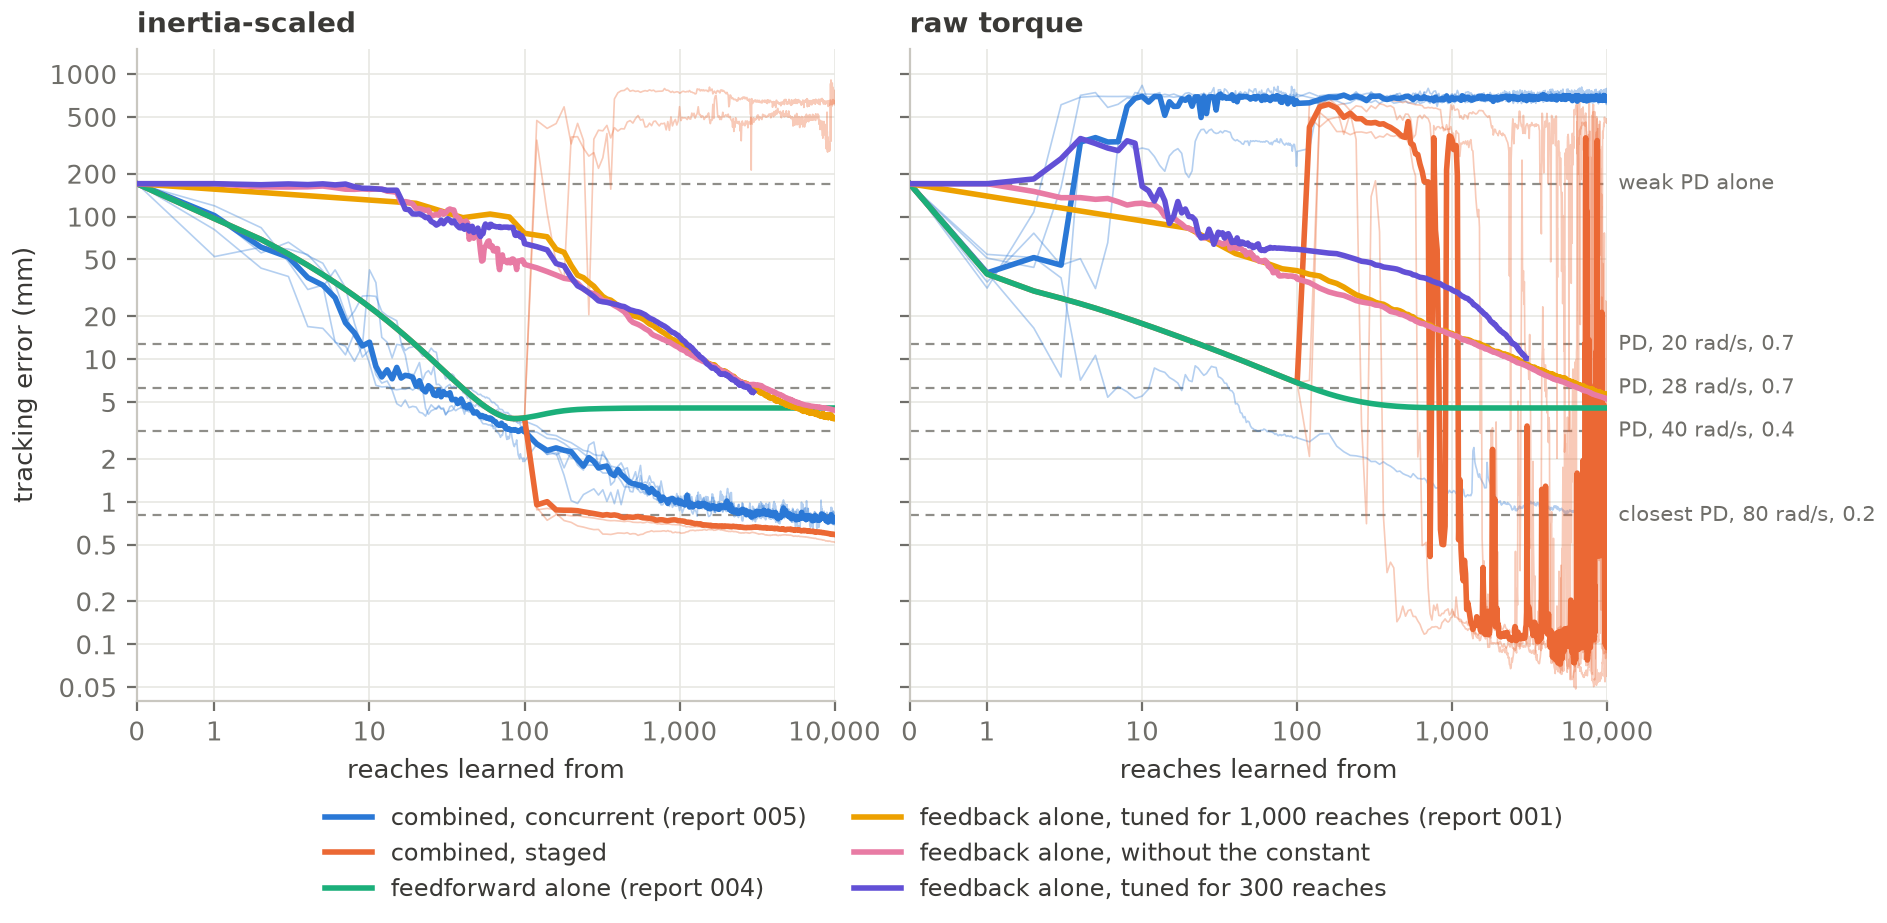
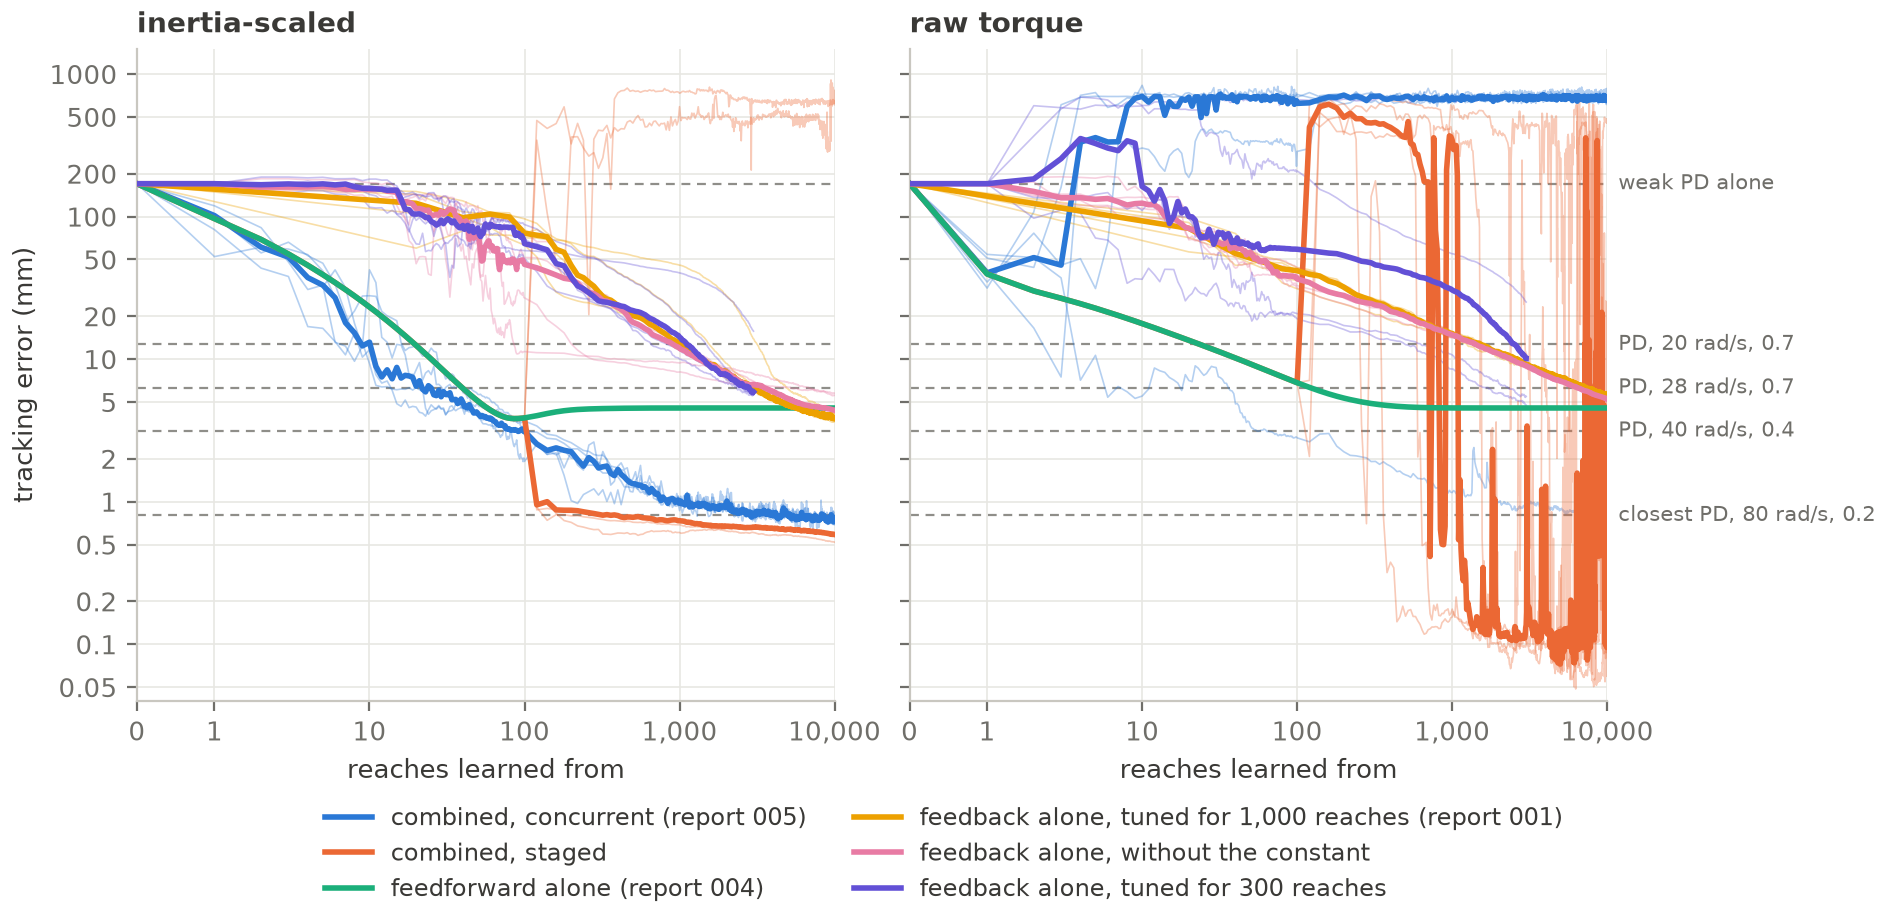
docs: draw every arm's seeds in report 006's final-runs figure
The figure drew single seeds only for the combined arms, so the three arms
of the feedback alone showed their medians alone. Every arm with more than
one seed now shows them. The text names what the medians hid: with raw
torque, the feedback tuned for 300 reaches lost seed 1 at once, and seeds
3 and 4 left the weak PD early and came back.

diff --git a/reports/006-learning-speed/make_figures.py b/reports/006-learning-speed/make_figures.py
@@ -7,8 +7,9 @@
 
 It writes, under ``figures/``:
 
-- ``final.png``: the noise-free tracking error of every arm over the reaches, a panel
-  per feedback scale, against the PDs;
+- ``final.png``: the noise-free tracking error of every arm over the reaches, each
+  seed thin and the median over the seeds thick, a panel per feedback scale, against
+  the PDs;
 - ``levels.png``: the reach from which each seed stays closer than each PD, per arm.
 """
 
@@ -94,7 +95,7 @@ def draw_final(runs, pds) -> None:
         for (label, run), color in zip(runs[scale].items(), SERIES, strict=True):
             at, evaluations = load_course(run)
             errors = millimetres(evaluations)
-            if label.startswith("combined") and len(errors) > 1:
+            if len(errors) > 1:
                 for row in errors:
                     ax.plot(at, row, color=color, lw=0.6, alpha=0.35, zorder=2)
             ax.plot(at, np.median(errors, axis=0), color=color, lw=2.0, label=label, zorder=3)

diff --git a/reports/006-learning-speed/README.md b/reports/006-learning-speed/README.md
@@ -203,8 +203,9 @@ schedule and at 300 for the feedback alone.
 ### 3.2 The final runs
 
 Every arm's noise-free tracking error over the reaches, drawn like report 003's
-final-runs figure: the combined arms' seeds thin, the medians thick (a run-away
-counting as it is), and the PDs dashed. The reaches are on a logarithmic axis.
+final-runs figure: each seed thin, the medians thick (a run-away counting as it
+is), and the PDs dashed. The feedforward alone is one run: it has no exploration
+noise. The reaches are on a logarithmic axis.
 
 ![The final runs of all six arms, inertia-scaled and with raw torque, against the PDs](figures/final.png)
 
@@ -251,7 +252,12 @@ Report 001's runs were not evaluated at 10 and 30 reaches.
   the weak PD's 170 mm. Seed 4 ended at 473 mm.
 - **The feedback alone held on every seed but one.** All 15 inertia-scaled
   trainings improved, and 14 of 15 with raw torque. The feedback tuned for 300
-  reaches lost seed 1 with raw torque by reach 100.
+  reaches lost seed 1 with raw torque at once: 367 mm after 2 reaches, then 569 to
+  690 mm from the third to the end, mostly hidden in the figure under the combined
+  controller's run-aways. Two more of its seeds left the weak PD early and came
+  back. Seed 3 rose to 353 mm and was below 170 mm again after 10 reaches; seed 4
+  rose to 604 mm and stayed above 170 mm until reach 120. They ended at 4.7 and
+  25.1 mm. Together, the three lift its median to 255 to 353 mm from reach 3 to 9.
 
 ### 3.3 The reaches to each level
 
